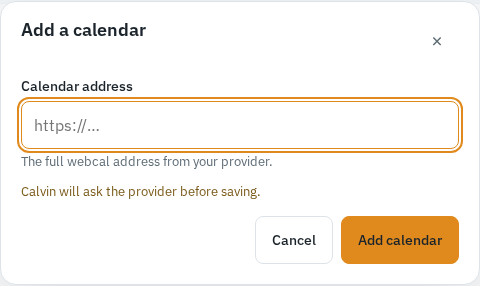
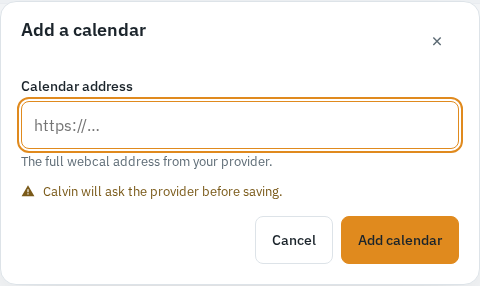
feat(dev): let the gallery switch theme and mode (CLV-77)
Reviewers pick Calvin, Ocean, Forest or Sunset and Light or Dark from two
segmented controls; the palette comes from backend/data/themes/builtin.json
so it cannot drift, with the derived focus/switch/elevation tokens resolved
for a descendant root. A Playwright case walks all eight presets and checks
--bg-0; the CI snapshots remain Calvin light and dark only.

Changed region(s): [[0.0312, 0.6434, 0.5938, 0.6993]]

diff --git a/frontend/src/dev/UiGallery.vue b/frontend/src/dev/UiGallery.vue
@@ -1,15 +1,18 @@
 <template>
-  <div class="ui-gallery" :class="{ dark: theme === 'dark' }" data-test="ui-gallery">
+  <div
+    class="ui-gallery"
+    :class="{ dark: preset.dark }"
+    :style="preset.vars"
+    :data-theme="themeName"
+    :data-mode="mode"
+    data-test="ui-gallery"
+  >
     <header class="ui-gallery__bar">
       <h1 class="ui-gallery__title">Calvin UI gallery</h1>
-      <SegmentedControl
-        v-model="theme"
-        :options="[
-          { value: 'light', label: 'Light' },
-          { value: 'dark', label: 'Backlit' },
-        ]"
-        aria-label="Theme"
-      />
+      <div class="ui-gallery__controls">
+        <SegmentedControl v-model="themeName" :options="GALLERY_THEME_OPTIONS" aria-label="Theme" />
+        <SegmentedControl v-model="mode" :options="GALLERY_MODE_OPTIONS" aria-label="Mode" />
+      </div>
     </header>
 
     <main class="ui-gallery__body">
@@ -84,8 +87,9 @@
       <section class="ui-gallery__section" data-test="gallery-inline-note">
         <h2 class="ui-gallery__heading">InlineNote</h2>
         <p class="ui-gallery__note">
-          The one-line note under a row: a hint, a warning, an error or a confirmation. Tones are
-          text only; status colours never decorate. An action can sit on the same line.
+          The one-line note under a row: a hint, a warning, an error or a confirmation. Status is
+          never colour alone — ok, warn and err add a decorative icon and the word carries the
+          meaning; neutral stays iconless. An action can sit on the same line.
         </p>
 
         <div class="ui-gallery__stack">
@@ -266,7 +270,7 @@
 </template>
 
 <script setup>
-import { ref } from "vue";
+import { computed, ref } from "vue";
 import {
   mdiCalendar,
   mdiCheck,
@@ -275,6 +279,7 @@ import {
   mdiMonitor,
   mdiRefresh,
 } from "@mdi/js";
+import { GALLERY_MODE_OPTIONS, GALLERY_THEME_OPTIONS, galleryTheme } from "./galleryThemes.js";
 import Button from "../components/ui/Button.vue";
 import Card from "../components/ui/Card.vue";
 import Dialog from "../components/ui/Dialog.vue";
@@ -288,10 +293,19 @@ import ToggleSwitch from "../components/ui/ToggleSwitch.vue";
 import SettingRow from "../components/settings/shell/SettingRow.vue";
 import SettingsSection from "../components/settings/shell/SettingsSection.vue";
 
-// ?theme=light|dark makes the snapshot and the reviewer's link deterministic;
-// without it the switcher starts on the light theme.
-const requested = new URLSearchParams(window.location.search).get("theme");
-const theme = ref(requested === "dark" ? "dark" : "light");
+// ?theme=calvin|ocean|forest|sunset&mode=light|dark makes a review link
+// deterministic. The snapshot suite keeps the legacy ?theme=light|dark (Calvin)
+// so the CI baselines stay on the default palette.
+const params = new URLSearchParams(window.location.search);
+const requestedTheme = params.get("theme");
+const requestedMode = params.get("mode");
+const themeName = ref(
+  GALLERY_THEME_OPTIONS.some(option => option.value === requestedTheme) ? requestedTheme : "calvin"
+);
+const mode = ref(
+  requestedMode === "dark" || (!requestedMode && requestedTheme === "dark") ? "dark" : "light"
+);
+const preset = computed(() => galleryTheme(themeName.value, mode.value));
 const text = ref("");
 const dialogOpen = ref(false);
 const dialogMode = ref("form");
@@ -325,6 +339,12 @@ const openDialog = mode => {
   font-family: var(--font-ui);
   font-size: var(--text-title);
   font-weight: var(--weight-title);
+}
+.ui-gallery__controls {
+  display: flex;
+  flex-wrap: wrap;
+  align-items: center;
+  gap: var(--gap-inline);
 }
 .ui-gallery__body {
   display: flex;

diff --git a/frontend/src/dev/galleryThemes.js b/frontend/src/dev/galleryThemes.js
@@ -1,0 +1,61 @@
+// Palette presets for the dev UI gallery (docs/design/frontend-doctrine.md §3).
+//
+// The app applies a theme by writing the palette onto :root (useTheme), so the
+// gallery does the same on its own root: the built-in JSON is the single source
+// of truth, and the derived tokens a theme relies on are derived here the same
+// way theme.css derives them. Calvin is the default theme: no overrides, the
+// .light/.dark blocks in theme.css already describe it.
+import builtinThemes from "../../../backend/data/themes/builtin.json";
+
+export const GALLERY_THEME_OPTIONS = [
+  { value: "calvin", label: "Calvin" },
+  { value: "ocean", label: "Ocean" },
+  { value: "forest", label: "Forest" },
+  { value: "sunset", label: "Sunset" },
+];
+
+export const GALLERY_MODE_OPTIONS = [
+  { value: "light", label: "Light" },
+  { value: "dark", label: "Dark" },
+];
+
+const THEME_VALUES = GALLERY_THEME_OPTIONS.map(option => option.value);
+
+/**
+ * Resolve one gallery preset: the wrapper's dark class plus the palette
+ * overrides (custom properties) for a named theme.
+ *
+ * @param {string} themeName  calvin | ocean | forest | sunset
+ * @param {string} mode       light | dark
+ */
+export function galleryTheme(themeName, mode) {
+  const dark = mode === "dark";
+  const theme = builtinThemes[themeName];
+  if (!themeName || themeName === "calvin" || !THEME_VALUES.includes(themeName) || !theme) {
+    return { dark, vars: {} };
+  }
+
+  const palette = (dark ? theme.dark_mode : theme.variables) || theme.variables;
+  const vars = {};
+  for (const [key, value] of Object.entries(palette)) vars[`--${key}`] = value;
+
+  // theme.css derives these from the semantic colours, but a palette set on a
+  // descendant does not re-run :root's calculations for it.
+  const { focus, ink, "bg-1": bg1, "shadow-hover": shadowHover } = palette;
+  if (focus) {
+    vars["--focus-glow"] = `color-mix(in srgb, ${focus} 36%, transparent)`;
+    vars["--focus-edge"] = `color-mix(in srgb, ${focus} 75%, transparent)`;
+  }
+  if (ink && bg1) {
+    vars["--switch-track-off"] = `color-mix(in srgb, ${ink} 28%, ${bg1})`;
+    vars["--switch-knob"] = bg1;
+    vars["--switch-knob-on"] = bg1;
+  }
+  if (shadowHover) {
+    vars["--switch-knob-shadow"] = `0 1px 2px ${shadowHover}`;
+    vars["--elev-1"] = `0 6px 18px -8px ${shadowHover}`;
+    vars["--elev-2"] = `0 18px 50px -16px ${shadowHover}`;
+  }
+
+  return { dark, vars };
+}

diff --git a/frontend/tests/unit/dev/galleryThemes.spec.js b/frontend/tests/unit/dev/galleryThemes.spec.js
@@ -1,0 +1,45 @@
+import { describe, it, expect } from "vitest";
+import builtinThemes from "../../../../backend/data/themes/builtin.json";
+import { GALLERY_MODE_OPTIONS, GALLERY_THEME_OPTIONS, galleryTheme } from "@/dev/galleryThemes.js";
+
+describe("gallery themes", () => {
+  it("offers Calvin, Ocean, Forest and Sunset in light and dark", () => {
+    expect(GALLERY_THEME_OPTIONS.map(option => option.label)).toEqual([
+      "Calvin",
+      "Ocean",
+      "Forest",
+      "Sunset",
+    ]);
+    expect(GALLERY_MODE_OPTIONS.map(option => option.value)).toEqual(["light", "dark"]);
+  });
+
+  it("leaves Calvin to theme.css", () => {
+    expect(galleryTheme("calvin", "light")).toEqual({ dark: false, vars: {} });
+    expect(galleryTheme("calvin", "dark")).toEqual({ dark: true, vars: {} });
+  });
+
+  it.each(["ocean", "forest", "sunset"])("maps %s light and dark palettes", name => {
+    const light = galleryTheme(name, "light");
+    const dark = galleryTheme(name, "dark");
+    const theme = builtinThemes[name];
+
+    expect(light.dark).toBe(false);
+    expect(dark.dark).toBe(true);
+    expect(light.vars["--bg-0"]).toBe(theme.variables["bg-0"]);
+    expect(dark.vars["--bg-0"]).toBe(theme.dark_mode["bg-0"]);
+    expect(light.vars["--ink"]).toBe(theme.variables.ink);
+    expect(dark.vars["--ink"]).toBe(theme.dark_mode.ink);
+  });
+
+  it("derives the tokens a palette on a descendant would otherwise miss", () => {
+    const { vars } = galleryTheme("ocean", "light");
+    expect(vars["--focus-glow"]).toBe("color-mix(in srgb, #027cbe 36%, transparent)");
+    expect(vars["--focus-edge"]).toBe("color-mix(in srgb, #027cbe 75%, transparent)");
+    expect(vars["--elev-1"]).toBe("0 6px 18px -8px rgba(18, 49, 63, 0.18)");
+    expect(vars["--switch-track-off"]).toBe("color-mix(in srgb, #12313f 28%, #e8f4f8)");
+  });
+
+  it("falls back to Calvin for an unknown theme", () => {
+    expect(galleryTheme("neon", "dark")).toEqual({ dark: true, vars: {} });
+  });
+});

diff --git a/frontend/tests/e2e/ui-gallery.spec.js b/frontend/tests/e2e/ui-gallery.spec.js
@@ -7,6 +7,12 @@
  * CI. Baselines are committed next to this file.
  */
 import { test, expect } from "@playwright/test";
+import { readFileSync } from "node:fs";
+
+// The built-in palettes are the app's source of truth (backend/data/themes).
+const builtinThemes = JSON.parse(
+  readFileSync(new URL("../../../backend/data/themes/builtin.json", import.meta.url), "utf8")
+);
 
 const VIEWPORTS = [
   { name: "1280", size: { width: 1280, height: 800 } },
@@ -23,6 +29,31 @@ async function openGallery(page, theme) {
   // One real focus state in the page: the TextField with a validation error.
   await page.locator('[data-test="gallery-text-field-focus"]').locator("input").focus();
 }
+
+test.describe("ui gallery palettes", () => {
+  test("the switcher reaches every built-in theme in light and dark", async ({ page }) => {
+    await page.goto("/ui-gallery.html?theme=calvin");
+    const gallery = page.locator('[data-test="ui-gallery"]');
+
+    for (const name of ["Calvin", "Ocean", "Forest", "Sunset"]) {
+      for (const mode of ["Light", "Dark"]) {
+        await page.getByRole("radio", { name, exact: true }).click();
+        await page.getByRole("radio", { name: mode, exact: true }).click();
+
+        const theme = name.toLowerCase();
+        const palette = theme === "calvin" ? builtinThemes.light : builtinThemes[theme];
+        const expected = mode === "Dark" ? palette.dark_mode["bg-0"] : palette.variables["bg-0"];
+
+        await expect(gallery).toHaveAttribute("data-theme", theme);
+        await expect(gallery).toHaveAttribute("data-mode", mode.toLowerCase());
+        const actual = await gallery.evaluate(el =>
+          getComputedStyle(el).getPropertyValue("--bg-0").trim()
+        );
+        expect(actual.toUpperCase()).toBe(expected.toUpperCase());
+      }
+    }
+  });
+});
 
 for (const viewport of VIEWPORTS) {
   for (const theme of THEMES) {
